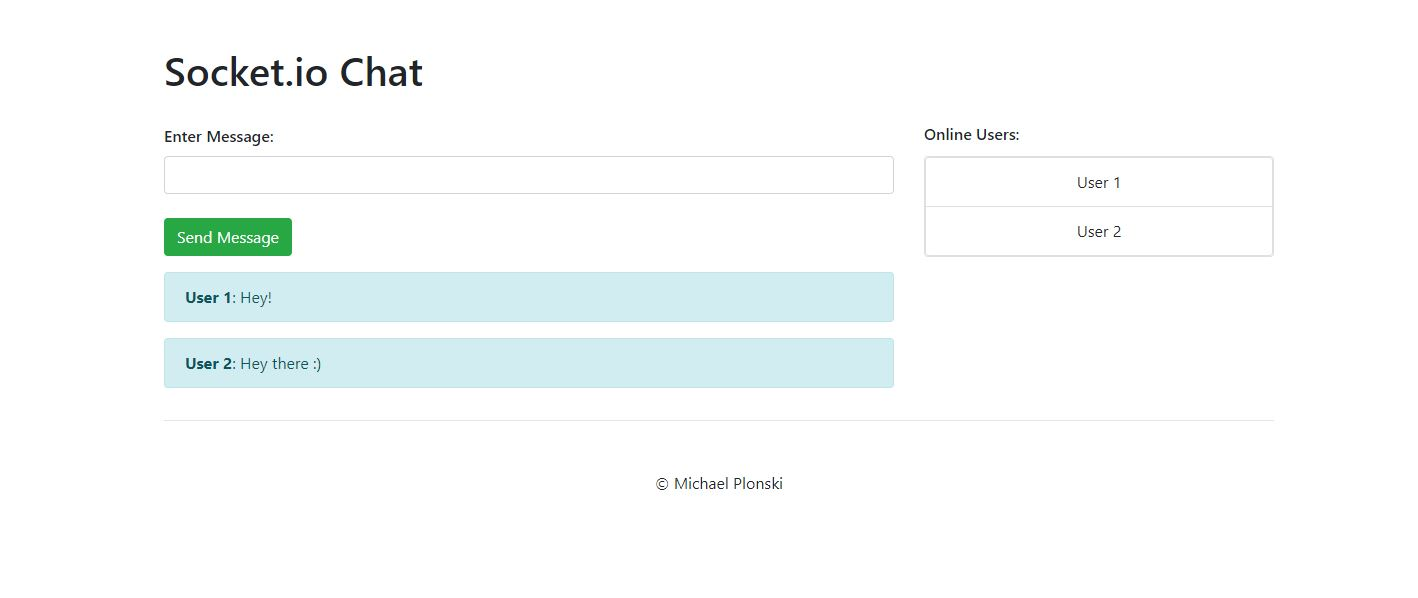
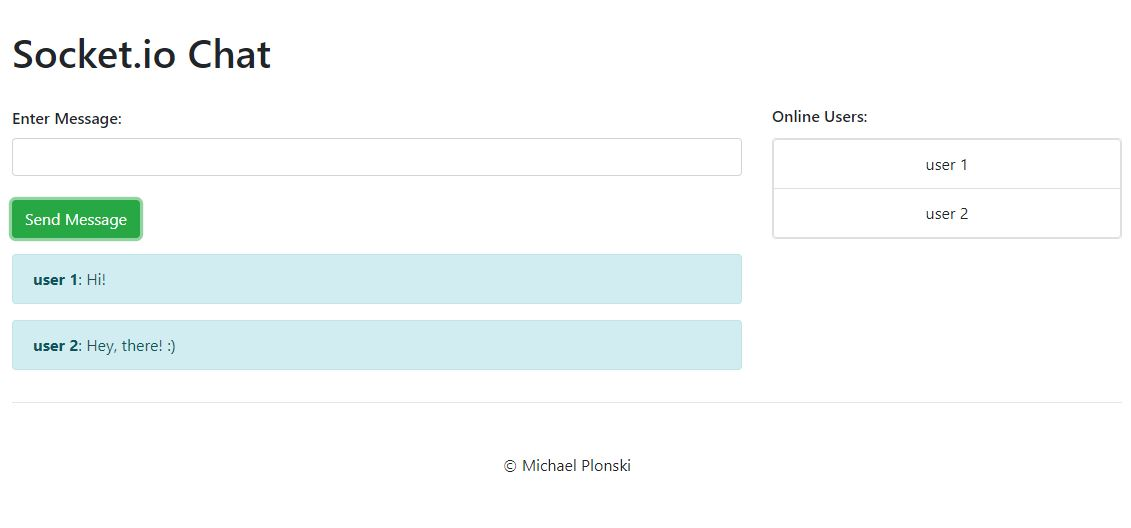
Change preview image and edit readme

diff --git a/README.md b/README.md
@@ -3,7 +3,7 @@
 ![alt text](https://raw.githubusercontent.com/MPlonski87/socket-io-chat/master/socket-io-chat.jpg)
 
 ## Description
-A simple Socket.io Chat application built with Node.js and Bootstrap. Test it: [https://dev-socket-io-chat.herokuapp.com/](https://dev-socket-io-chat.herokuapp.com/)
+A simple Socket.io Chat application built with Node.js, Bootstrap and of course Socket.io. Test it: [https://dev-socket-io-chat.herokuapp.com/](https://dev-socket-io-chat.herokuapp.com/)
 
 ## Requirements
 - Node.js (https://nodejs.org/) including npm (https://www.npmjs.com/)
